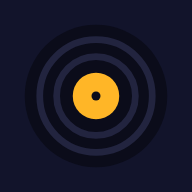
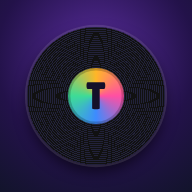
Ícono nuevo de Temón (vinilo con la T de colores)
Claude-Session: https://claude.ai/code/session_01EWHs9p3mkqNGgMbHph2imc

diff --git a/sw.js b/sw.js
@@ -1,5 +1,5 @@
 // Guarda la app para que abra rápido. Siempre intenta la red primero para recibir actualizaciones.
-const CACHE = "pulsador-v26";
+const CACHE = "pulsador-v27";
 const FILES = ["./", "index.html", "style.css", "app.js", "spotify.js", "cassette.js", "fx.js", "intro.js", "audio/intro-loop.mp3", "audio/intro-end.mp3", "decks.js", "videos.js", "yt.js", "vendor/paho-mqtt-min.js", "net.js", "vendor/qrcode.js", "icon.svg", "icon-192.png", "icon-512.png", "manifest.webmanifest"];
 self.addEventListener("install", (e) => { e.waitUntil(caches.open(CACHE).then((c) => c.addAll(FILES)).then(() => self.skipWaiting())); });
 self.addEventListener("activate", (e) => { e.waitUntil(caches.keys().then((ks) => Promise.all(ks.filter((k) => k !== CACHE).map((k) => caches.delete(k)))).then(() => self.clients.claim())); });
